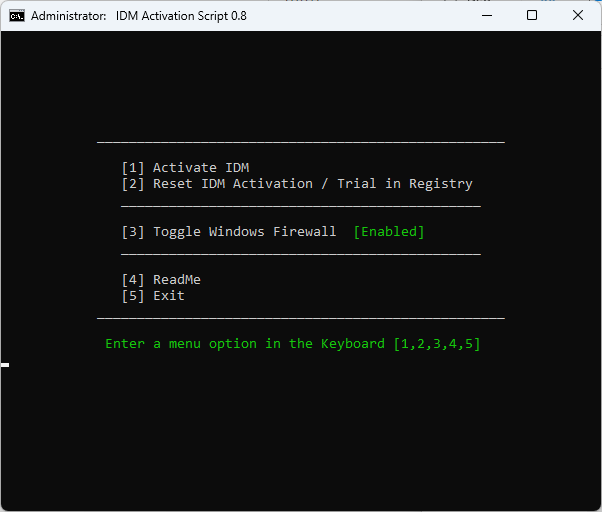
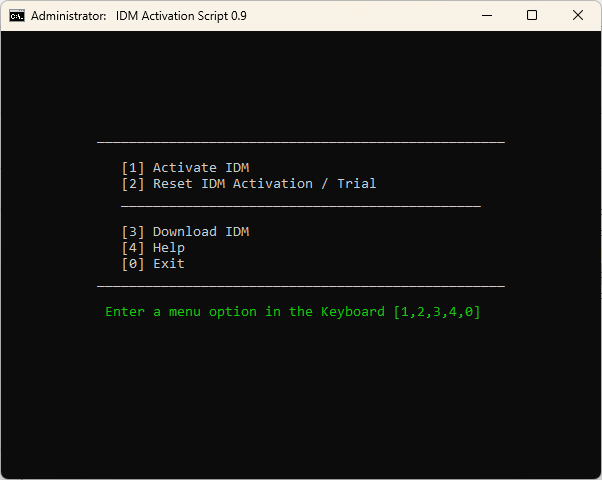
IAS 0.9

diff --git a/_site/idm-activation-script.html b/_site/idm-activation-script.html
@@ -407,7 +407,7 @@ div.tocify {
 
 <div id="idm-activation-script" class="section level2">
 <h2>IDM Activation Script</h2>
-<p>An open source tool to activate or reset trial of <a
+<p>An open-source tool to activate or reset the trial of <a
 href="https://www.internetdownloadmanager.com/">Internet Download
 Manager</a></p>
 <hr />
@@ -419,15 +419,17 @@ Manager</a></p>
 <li>Activation persists even after installing IDM updates</li>
 <li>IDM trial reset</li>
 <li>Fully open source</li>
-<li>Based on transparent batch script</li>
+<li>Based on the transparent batch script</li>
 </ul>
 <hr />
 </div>
 <div id="ias-latest-release" class="section level2">
 <h2>IAS Latest Release</h2>
-<p>Last Release - v0.8 (10-Aug-2023)<br />
+<p>Last Release - v0.9 (29-Nov-2023)<br />
 <a
-href="https://github.com/WindowsAddict/IDM-Activation-Script">GitHub</a></p>
+href="https://github.com/WindowsAddict/IDM-Activation-Script">GitHub</a>
+- <a
+href="https://bitbucket.org/WindowsAddict/idm-activation-script/">BitBucket</a></p>
 <hr />
 </div>
 <div id="download-how-to-use-it" class="section level2">
@@ -437,13 +439,13 @@ href="https://github.com/WindowsAddict/IDM-Activation-Script">GitHub</a></p>
 href="https://www.internetdownloadmanager.com/">Internet Download
 Manager</a>. Make sure previous cracks/patches are removed/uninstalled
 if there are any.</li>
-<li>After that, follow below steps to activate it.</li>
+<li>After that, follow the below steps to activate it.</li>
 </ul>
 <div id="method-1---powershell" class="section level3">
 <h3>Method 1 - PowerShell</h3>
 <p>(Recommended)</p>
 <ul>
-<li>On Windows 8.1/10/11, right-click on the windows start menu and
+<li>On Windows 8.1/10/11, right-click on the Windows start menu and
 select PowerShell or Terminal (Not CMD).</li>
 <li>Copy-paste the below code and press enter<br />
 <code>irm https://massgrave.dev/ias | iex</code></li>
@@ -456,8 +458,10 @@ instructions.</li>
 <h3>Method 2 - Traditional</h3>
 <ul>
 <li>Download the file from <a
-href="https://github.com/WindowsAddict/IDM-Activation-Script/archive/refs/heads/main.zip">here</a></li>
-<li>Right click on the downloaded zip file and extract</li>
+href="https://github.com/WindowsAddict/IDM-Activation-Script/archive/refs/heads/main.zip">GitHub</a>
+or <a
+href="https://bitbucket.org/WindowsAddict/idm-activation-script/get/main.zip">Bitbucket</a></li>
+<li>Right-click on the downloaded zip file and extract</li>
 <li>In the extracted folder, run the file named
 <code>IAS.cmd</code></li>
 <li>You will see the activation options, and follow onscreen
@@ -472,45 +476,44 @@ instructions.</li>
 <div id="activation" class="section level4">
 <h4>Activation</h4>
 <ul>
-<li>This script applies registry lock method to activate Internet
-download manager (IDM).</li>
-<li>This method requires Internet at the time of activation.</li>
-<li>IDM updates can be installed directly without having to activate
+<li>This script applies the registry lock method to activate the
+Internet download manager (IDM).</li>
+<li>This method requires the Internet at the time of activation.</li>
+<li>IDM updates can be installed directly without having to activate it
 again.</li>
-<li>After the activation, if in some case, IDM starts to show activation
-nag screen, then just run the activation option again.</li>
+<li>After the activation, if in some cases, IDM starts to show an
+activation nag screen, then just run the activation option again without
+using the reset option.</li>
 </ul>
 </div>
 <div id="reset-idm-activation-trial" class="section level4">
 <h4>Reset IDM Activation / Trial</h4>
 <ul>
-<li>Internet download manager provides 30 days trial period, you can use
-this script to reset this Activation / Trial period whenever you
+<li>Internet download manager provides a 30-day trial period, you can
+use this script to reset this Activation / Trial period whenever you
 want.</li>
 <li>This option also can be used to restore status if in case IDM
-reports fake serial key and other similar errors.</li>
+reports a fake serial key and other similar errors.</li>
 </ul>
 </div>
 <div id="os-requirement" class="section level4">
 <h4>OS requirement</h4>
 <ul>
-<li>Project is supported for Windows 7/8/8.1/10/11 and their Server
+<li>The project is supported for Windows 7/8/8.1/10/11 and their Server
 equivalent.</li>
-<li>PowerShell method to run IAS is supported on Windows 8 and
+<li>The PowerShell method to run IAS is supported on Windows 8 and
 higher.</li>
 </ul>
 </div>
 <div id="advanced-info" class="section level4">
 <h4>Advanced Info</h4>
 <ul>
-<li>To add a custom name in IDM license info, edit line number 21 in the
+<li>To add a custom name in IDM license info, edit line number 29 in the
 script file.</li>
-<li>For activation in unattended mode, run the script with
+<li>For activation in unattended mode, run the script with the
 <code>/act</code> parameter.</li>
-<li>For reset in unattended mode, run the script with <code>/res</code>
-parameter.</li>
-<li>To enable silent mode with above two methods, run the script with
-<code>/s</code> parameter.</li>
+<li>For reset in unattended mode, run the script with the
+<code>/res</code> parameter.</li>
 </ul>
 <hr />
 </div>
@@ -518,14 +521,14 @@ parameter.</li>
 <div id="how-does-it-work" class="section level2">
 <h2>How does it work?</h2>
 <ul>
-<li>IDM stores the data related to trial and activation in across
-various registry keys. Some of these keys are locked to protect them
-from tampering and data is stored in a pattern to track the fake serial
-issue and the remaining trial days. To activate it, script here simply
-generate those registry keys by triggering a few downloads in IDM and
-identifies those registry keys and locks them so IDM can’t edit and
-view. That way IDM cannot show the warning that it’s activated with a
-fake serial key.</li>
+<li>IDM stores the data related to trial and activation across various
+registry keys. Some of these keys are locked to protect them from
+tampering and data is stored in a pattern to track the fake serial issue
+and the remaining trial days. To activate it, the script here simply
+generates those registry keys by triggering a few downloads in IDM,
+identifies those registry keys, and locks them so IDM can’t edit and
+view them. That way IDM cannot show the warning that it’s activated with
+a fake serial key.</li>
 </ul>
 <hr />
 </div>
@@ -534,8 +537,8 @@ fake serial key.</li>
 <ul>
 <li>Browser Integration Fix: <a
 href="https://www.internetdownloadmanager.com/register/new_faq/bi9.html">Chrome</a>
-<a
-href="https://www.internetdownloadmanager.com/register/new_faq/bi4.html">FireFox</a></li>
+- <a
+href="https://www.internetdownloadmanager.com/register/new_faq/bi4.html">Firefox</a></li>
 <li>Reach out to us on <a
 href="https://discord.gg/gjJEfq7ux8">Discord</a> (signup not required)
 with an error screenshot.</li>
@@ -546,17 +549,44 @@ src="https://lookimg.com/images/2023/03/21/QTvjcD.png" /></a></p>
 </div>
 <div id="changelog" class="section level2">
 <h2>Changelog</h2>
-<p>v0.8</p>
+<div id="v0.9" class="section level4">
+<h4>v0.9</h4>
+<ul>
+<li>Fixed an issue where the script can not activate and reset IDM in
+non-admin user accounts.</li>
+<li>Fixed an issue where the script incorrectly shows that IDM is
+activated.</li>
+<li>Fixed an issue where a fake serial pop-up may appear. The script
+will also show the info to run the activation option again without using
+the reset option.</li>
+<li>Fixed an issue where Powershell code to launch IAS may not work due
+to GitHub block in some regions. It will use the new <a
+href="https://bitbucket.org/WindowsAddict/idm-activation-script/">BitBucket</a>
+repo as a fallback link.</li>
+<li>IDM registry scanning and locking code is now written in
+Powershell.</li>
+<li>The script update checker code is added to the script.</li>
+<li>The script will now disable quick edit mode temporarily because
+users often click inside the script window and it pauses the
+script.</li>
+<li>The script will back up the CLSISD registry keys before performing
+operations on them.</li>
+<li>Many error checks are added to better identify the issues.</li>
+</ul>
+</div>
+<div id="v0.8" class="section level4">
+<h4>v0.8</h4>
 <ul>
 <li>Move the project to <a
 href="https://github.com/WindowsAddict/IDM-Activation-Script">Github</a>
 and <a
 href="https://massgrave.dev/idm-activation-script.html">massgrave.dev</a></li>
 <li>Minor bug fixes</li>
-<li>Add an info to inform users that empty registry keys are being
-deleted when script deletes a lot of them</li>
+<li>Add info to inform users that empty registry keys are being deleted
+when the script deletes a lot of them</li>
 </ul>
 <hr />
+</div>
 </div>
 <div id="screenshots" class="section level2">
 <h2>Screenshots</h2>
@@ -568,8 +598,8 @@ deleted when script deletes a lot of them</li>
 <h2>Credits</h2>
 <table>
 <colgroup>
-<col width="29%" />
-<col width="70%" />
+<col width="16%" />
+<col width="83%" />
 </colgroup>
 <tbody>
 <tr class="odd">

diff --git a/_site/office_c2r_custom.html b/_site/office_c2r_custom.html
@@ -477,7 +477,7 @@ your preferred method.</p>
 <li><p><a
 href="https://github.com/abbodi1406/WHD/raw/master/scripts/YAOCTRU_v9.0.zip">YAOCTRU</a>
 (Office Downloader) &amp; <a
-href="https://github.com/abbodi1406/WHD/raw/master/scripts/YAOCTRI_v10.6.zip">YAOCTRI</a>
+href="https://github.com/abbodi1406/WHD/raw/master/scripts/YAOCTRI_v10.7.zip">YAOCTRI</a>
 (Office Installer)</p></li>
 <li><p><a href="http://otp.landian.vip/">Office Tool Plus</a></p></li>
 </ul>

diff --git a/idm-activation-script.md b/idm-activation-script.md
@@ -4,7 +4,7 @@ pagetitle: IDM Activation Script
 
 ## IDM Activation Script
 
-An open source tool to activate or reset trial of [Internet Download Manager](https://www.internetdownloadmanager.com/)
+An open-source tool to activate or reset the trial of [Internet Download Manager](https://www.internetdownloadmanager.com/)
 
 ------------------------------------------------------------------------
 
@@ -14,27 +14,27 @@ An open source tool to activate or reset trial of [Internet Download Manager](ht
 -   Activation persists even after installing IDM updates
 -   IDM trial reset
 -   Fully open source
--   Based on transparent batch script
+-   Based on the transparent batch script
 
 ------------------------------------------------------------------------
 
 ## IAS Latest Release
 
-Last Release - v0.8 (10-Aug-2023)\
-[GitHub](https://github.com/WindowsAddict/IDM-Activation-Script)
+Last Release - v0.9 (29-Nov-2023)\
+[GitHub](https://github.com/WindowsAddict/IDM-Activation-Script) - [BitBucket](https://bitbucket.org/WindowsAddict/idm-activation-script/)
 
 ------------------------------------------------------------------------
 
 ## Download / How to use it?
 
 -   First, fresh install [Internet Download Manager](https://www.internetdownloadmanager.com/). Make sure previous cracks/patches are removed/uninstalled if there are any.
--   After that, follow below steps to activate it.
+-   After that, follow the below steps to activate it.
 
 ### Method 1 - PowerShell
 
 (Recommended)
 
--   On Windows 8.1/10/11, right-click on the windows start menu and select PowerShell or Terminal (Not CMD).
+-   On Windows 8.1/10/11, right-click on the Windows start menu and select PowerShell or Terminal (Not CMD).
 -   Copy-paste the below code and press enter\
     `irm https://massgrave.dev/ias | iex`
 -   You will see the activation options, follow the on-screen instructions.
@@ -42,8 +42,8 @@ Last Release - v0.8 (10-Aug-2023)\
 
 ### Method 2 - Traditional
 
--   Download the file from [here](https://github.com/WindowsAddict/IDM-Activation-Script/archive/refs/heads/main.zip)
--   Right click on the downloaded zip file and extract
+-   Download the file from [GitHub](https://github.com/WindowsAddict/IDM-Activation-Script/archive/refs/heads/main.zip) or [Bitbucket](https://bitbucket.org/WindowsAddict/idm-activation-script/get/main.zip)
+-   Right-click on the downloaded zip file and extract
 -   In the extracted folder, run the file named `IAS.cmd`
 -   You will see the activation options, and follow onscreen instructions.
 -   That's all.
@@ -54,39 +54,38 @@ Last Release - v0.8 (10-Aug-2023)\
 
 #### Activation
 
--   This script applies registry lock method to activate Internet download manager (IDM).
--   This method requires Internet at the time of activation.
--   IDM updates can be installed directly without having to activate again.
--   After the activation, if in some case, IDM starts to show activation nag screen, then just run the activation option again.
+-   This script applies the registry lock method to activate the Internet download manager (IDM).
+-   This method requires the Internet at the time of activation.
+-   IDM updates can be installed directly without having to activate it again.
+-   After the activation, if in some cases, IDM starts to show an activation nag screen, then just run the activation option again without using the reset option.
 
 #### Reset IDM Activation / Trial
 
--   Internet download manager provides 30 days trial period, you can use this script to reset this Activation / Trial period whenever you want.
--   This option also can be used to restore status if in case IDM reports fake serial key and other similar errors.
+-   Internet download manager provides a 30-day trial period, you can use this script to reset this Activation / Trial period whenever you want.
+-   This option also can be used to restore status if in case IDM reports a fake serial key and other similar errors.
 
 #### OS requirement
 
--   Project is supported for Windows 7/8/8.1/10/11 and their Server equivalent.
--   PowerShell method to run IAS is supported on Windows 8 and higher.
+-   The project is supported for Windows 7/8/8.1/10/11 and their Server equivalent.
+-   The PowerShell method to run IAS is supported on Windows 8 and higher.
 
 #### Advanced Info
 
--   To add a custom name in IDM license info, edit line number 21 in the script file.
--   For activation in unattended mode, run the script with `/act` parameter.
--   For reset in unattended mode, run the script with `/res` parameter.
--   To enable silent mode with above two methods, run the script with `/s` parameter.
+-   To add a custom name in IDM license info, edit line number 29 in the script file.
+-   For activation in unattended mode, run the script with the `/act` parameter.
+-   For reset in unattended mode, run the script with the `/res` parameter.
 
 ------------------------------------------------------------------------
 
 ## How does it work?
 
--   IDM stores the data related to trial and activation in across various registry keys. Some of these keys are locked to protect them from tampering and data is stored in a pattern to track the fake serial issue and the remaining trial days. To activate it, script here simply generate those registry keys by triggering a few downloads in IDM and identifies those registry keys and locks them so IDM can't edit and view. That way IDM cannot show the warning that it's activated with a fake serial key.
+-   IDM stores the data related to trial and activation across various registry keys. Some of these keys are locked to protect them from tampering and data is stored in a pattern to track the fake serial issue and the remaining trial days. To activate it, the script here simply generates those registry keys by triggering a few downloads in IDM, identifies those registry keys, and locks them so IDM can't edit and view them. That way IDM cannot show the warning that it's activated with a fake serial key.
 
 ------------------------------------------------------------------------
 
 ## Troubleshoot
 
--   Browser Integration Fix: [Chrome](https://www.internetdownloadmanager.com/register/new_faq/bi9.html) [FireFox](https://www.internetdownloadmanager.com/register/new_faq/bi4.html)
+-   Browser Integration Fix: [Chrome](https://www.internetdownloadmanager.com/register/new_faq/bi9.html) - [Firefox](https://www.internetdownloadmanager.com/register/new_faq/bi4.html)
 -   Reach out to us on [Discord](https://discord.gg/gjJEfq7ux8) (signup not required) with an error screenshot.
 
 [![](https://lookimg.com/images/2023/03/21/QTvjcD.png)](https://discord.gg/gjJEfq7ux8)
@@ -95,11 +94,23 @@ Last Release - v0.8 (10-Aug-2023)\
 
 ## Changelog
 
-v0.8
+#### v0.9
+
+-   Fixed an issue where the script can not activate and reset IDM in non-admin user accounts.
+-   Fixed an issue where the script incorrectly shows that IDM is activated.
+-   Fixed an issue where a fake serial pop-up may appear. The script will also show the info to run the activation option again without using the reset option.
+-   Fixed an issue where Powershell code to launch IAS may not work due to GitHub block in some regions. It will use the new [BitBucket](https://bitbucket.org/WindowsAddict/idm-activation-script/) repo as a fallback link.
+-   IDM registry scanning and locking code is now written in Powershell.
+-   The script update checker code is added to the script.
+-   The script will now disable quick edit mode temporarily because users often click inside the script window and it pauses the script.
+-   The script will back up the CLSISD registry keys before performing operations on them.
+-   Many error checks are added to better identify the issues.
+
+#### v0.8
 
 -   Move the project to [Github](https://github.com/WindowsAddict/IDM-Activation-Script) and [massgrave.dev](https://massgrave.dev/idm-activation-script.html)
 -   Minor bug fixes
--   Add an info to inform users that empty registry keys are being deleted when script deletes a lot of them
+-   Add info to inform users that empty registry keys are being deleted when the script deletes a lot of them
 
 ------------------------------------------------------------------------
 
@@ -114,7 +125,7 @@ v0.8
 ## Credits
 
 |                                             |                                                                                                                                                                                                                                        |
-|---------------------|---------------------------------------------------|
+|---------------------------------------------|----------------------------------------------------------------------------------------------------------------------------------------------------------------------------------------------------------------------------------------|
 | Dukun Cabul                                 | Original researcher of this IDM trial reset and activation logic, made an Autoit tool for these methods, [IDM-AIO_2020_Final](https://nsaneforums.com/topic/371047-discussion-internet-download-manager-fixes/page/8/#comment-1632062) |
 | AveYo aka BAU                               | [reg_own lean and mean snippet](https://pastebin.com/XTPt0JSC)                                                                                                                                                                         |
 | [abbodi1406](https://github.com/abbodi1406) | Help in coding                                                                                                                                                                                                                         |

diff --git a/office_c2r_custom.md b/office_c2r_custom.md
@@ -59,7 +59,7 @@ It will now download and install Office. You can activate it with your preferred
 
 ## Alternative Methods
 
--   [YAOCTRU](https://github.com/abbodi1406/WHD/raw/master/scripts/YAOCTRU_v9.0.zip) (Office Downloader) & [YAOCTRI](https://github.com/abbodi1406/WHD/raw/master/scripts/YAOCTRI_v10.6.zip) (Office Installer)
+-   [YAOCTRU](https://github.com/abbodi1406/WHD/raw/master/scripts/YAOCTRU_v9.0.zip) (Office Downloader) & [YAOCTRI](https://github.com/abbodi1406/WHD/raw/master/scripts/YAOCTRI_v10.7.zip) (Office Installer)
 
 -   [Office Tool Plus](http://otp.landian.vip/)
 
